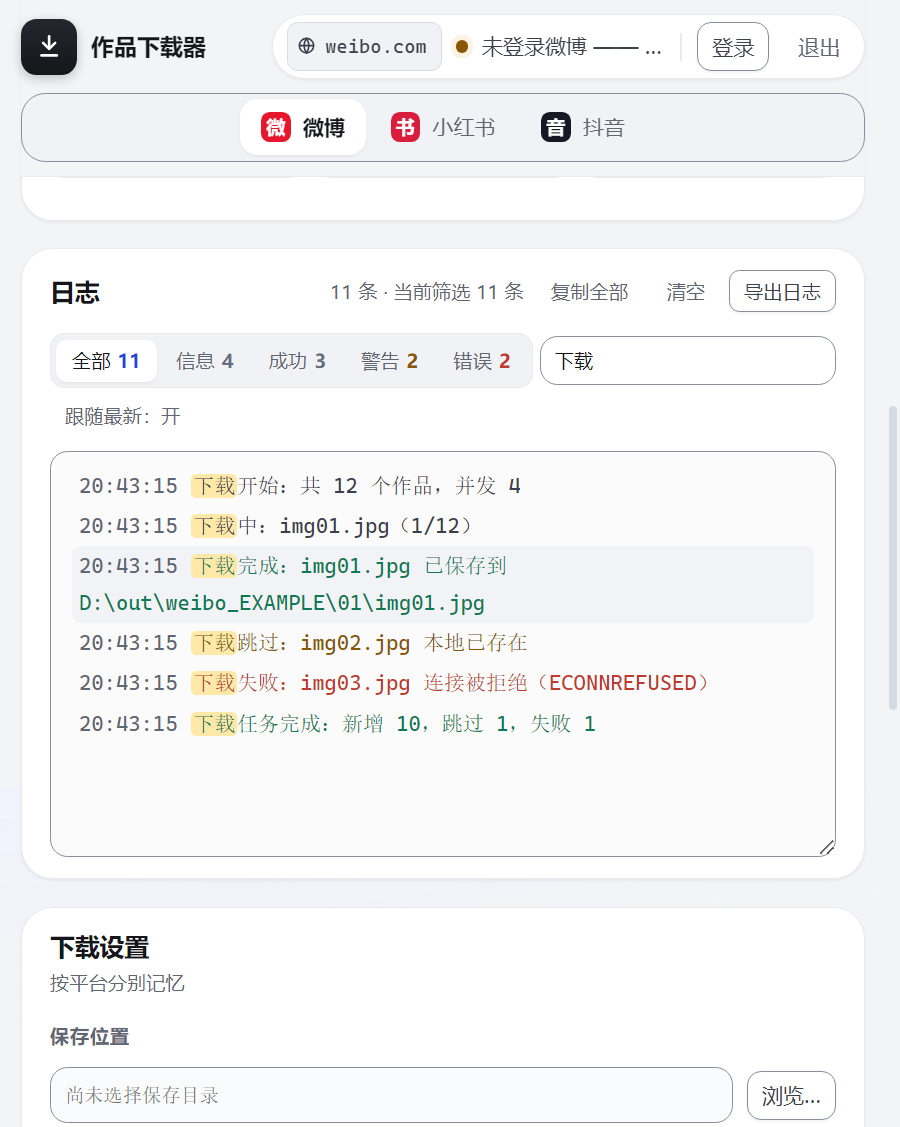
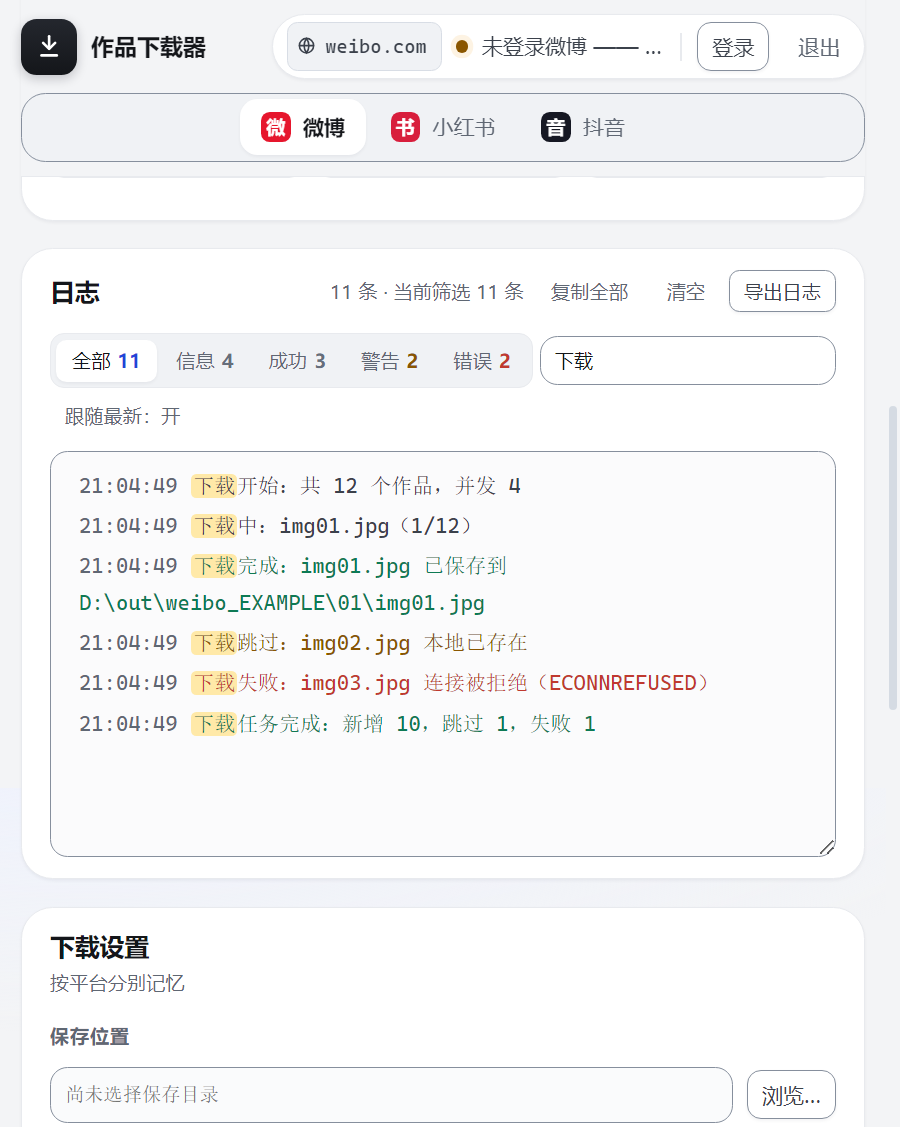
docs: 补失败明细与设置全展开两张截图，新增 failures 冒烟场景
- 新场景 `failures`：一次任务里同时出现三种真实失败分支 ——
  HTTP 403（链接过期）、ECONNREFUSED（连接被拒）、ENOSPC（磁盘空间不足），
  让「失败明细」这一块立起来。断言：明细 3 行、标题里的失败数与统计一致、
  复制清单/清除两个动作都在。
  踩坑：状态里的 fail 必须从 0 起 —— handleEvent 的 fail 分支会自己 fail++，
  预先写 3 会让统计格显示 6，与「失败明细 3 项」自相矛盾。
- 新增截图 `desktop-05-failures`（错误提示）与 `desktop-06-settings`（设置项全展开，
  用更高的窗口让右栏 11 项 + ffmpeg + 站点地址一屏可见）。
- README 截图章节补这两张，并注明失败明细里的三种原因与统计、日志同源；
  冒烟场景清单补上 failures。

全量 429 个用例通过；截图 10 张全部自检通过。

Changed region(s): [[0.0933, 0.4037, 0.1867, 0.528], [0.0933, 0.559, 0.1867, 0.6522], [0.0622, 0.9627, 0.2489, 0.9938]]

diff --git a/src/main/app/smoke.js b/src/main/app/smoke.js
@@ -72,7 +72,7 @@ function pngPathOf(smokeOut) {
 }
 
 /** 允许的截图场景（顺序即上面文件头的说明顺序） */
-const SMOKE_SCENES = ['idle', 'progress', 'modal', 'logs'];
+const SMOKE_SCENES = ['idle', 'progress', 'modal', 'logs', 'failures'];
 const DEFAULT_SCENE = 'progress';
 
 /**
@@ -270,6 +270,54 @@ function attachSmoke(ctx) {
           const toastEl = document.getElementById('toast');
           for (let i = 0; i < 25 && toastEl && toastEl.classList.contains('show'); i++) await sleep(200);
           return { scene: SCENE, hasApi: typeof window.api, viewport, snap, logs, checks };
+        }
+
+        /**
+         * 失败明细场景：一次任务里同时出现多种失败原因（403 / 连接被拒 / 磁盘满 / 登录态过期），
+         * 让「失败明细」这一块真正立起来 —— 进度条只给「失败 N」，出了事必须能落到具体文件。
+         */
+        if (SCENE === 'failures') {
+          const ui = window.__ui;
+          /** fail 必须从 0 起：handleEvent 的 fail 分支会自己 state.stats.fail++，
+           *  预先写 3 的话跑完会变成 6，统计格与「失败明细 3 项」自相矛盾。 */
+          ui.state.stats = { total: 12, done: 8, skip: 1, fail: 0, item: 5 };
+          ui.state.inflight.clear();
+          ui.renderStats();
+          await frames();
+
+          const stat = (done, skipped, failed) => ({ done, skipped, failed, bytes: 2048 * (done + failed), remaining: 0 });
+          ui.handleEvent({ type: 'dl', event: 'progress', file: 'D:\\\\out\\\\weibo_EXAMPLE\\\\01\\\\img07.jpg',
+            written: 40, total: 100, stats: stat(8, 1, 0) });
+          await frames();
+          ui.handleEvent({ type: 'dl', event: 'fail', file: 'D:\\\\out\\\\weibo_EXAMPLE\\\\01\\\\img07.jpg',
+            error: 'HTTP 403 Forbidden（链接已过期）', stats: stat(8, 1, 1) });
+          ui.handleEvent({ type: 'dl', event: 'fail', file: 'D:\\\\out\\\\weibo_EXAMPLE\\\\01\\\\vid03.mp4',
+            error: '连接被拒绝（ECONNREFUSED）', stats: stat(8, 1, 2) });
+          ui.handleEvent({ type: 'dl', event: 'fail', file: 'D:\\\\out\\\\weibo_EXAMPLE\\\\01\\\\img09.jpg',
+            error: '写入失败：磁盘空间不足（ENOSPC）', stats: stat(8, 1, 3) });
+          await frames(3);
+
+          const failBox = document.getElementById('failBox');
+          const failRows = document.querySelectorAll('#failList .f-row').length;
+          const failCount = document.getElementById('failCount').textContent;
+          const failButtons = ['btnCopyFail', 'btnClearFail'].filter((id) => !!document.getElementById(id)).length;
+
+          // 把失败明细滚到视口中间：它默认在进度卡最底部，900 高的窗口里看不到
+          if (failBox && failBox.scrollIntoView) failBox.scrollIntoView({ block: 'center' });
+          await frames(3);
+
+          check('失败明细区出现了', !failBox.hidden, !failBox.hidden);
+          check('三条失败逐条列出', failRows === 3, failRows);
+          check('标题里的失败数与统计一致', failCount === '3', failCount);
+          check('复制清单 / 清除 两个动作都在', failButtons === 2, failButtons);
+          return {
+            scene: SCENE,
+            hasApi: typeof window.api,
+            viewport,
+            snap,
+            failures: { failRows, failCount, failButtons, stats: { ...ui.state.stats } },
+            checks,
+          };
         }
 
         /* ---------- 2. 设计令牌是否真的生效 ----------

diff --git a/tools/screenshots.js b/tools/screenshots.js
@@ -1,6 +1,6 @@
 #!/usr/bin/env node
 /**
- * 生成 README 用的界面截图（桌面端 + 窄屏各四个场景，共八张）。
+ * 生成 README 用的界面截图（桌面端六个场景 + 窄屏四个场景，共十张）。
  *
  * 为什么单独写一个编排脚本，而不是手写八条命令：
  *   ① 每张图要一套 `--window-size` + `--smoke-scene` + 各自的 `--user-data-dir`，
@@ -20,7 +20,7 @@
  *
  * 用法：
  *   set SD_ELECTRON_EXE=<你的 Electron 可执行文件路径>
- *   node tools/screenshots.js                    # 全部八张
+ *   node tools/screenshots.js                    # 全部十张
  *   node tools/screenshots.js 02                 # 只跑名字含 02 的那张（调试用）
  *
  * 产物（docs/screenshots/）：
@@ -28,6 +28,8 @@
  *   desktop-02-progress.png      下载进行中
  *   desktop-03-cookie-modal.png  手动 Cookie 弹窗
  *   desktop-04-logs.png          日志区（级别筛选 + 关键字检索）
+ *   desktop-05-failures.png      失败明细（多种失败原因逐条落到文件）
+ *   desktop-06-settings.png      设置项全展开（更高的窗口，右栏无需内滚）
  *   mobile-01-idle.png           窄屏首屏（单栏）
  *   mobile-02-progress.png       窄屏下载中
  *   mobile-03-cookie-modal.png   窄屏弹窗
@@ -59,6 +61,8 @@ const SHOTS = [
   { name: 'desktop-02-progress', scene: 'progress', size: DESKTOP, desc: '下载进行中（进度条 + 并发细条 + 失败明细）' },
   { name: 'desktop-03-cookie-modal', scene: 'modal', size: DESKTOP, desc: '手动 Cookie 弹窗（微博）' },
   { name: 'desktop-04-logs', scene: 'logs', size: DESKTOP, desc: '日志区（级别筛选 + 关键字检索）' },
+  { name: 'desktop-05-failures', scene: 'failures', size: DESKTOP, desc: '失败明细（403 / 连接被拒 / 磁盘满，逐条落到文件）' },
+  { name: 'desktop-06-settings', scene: 'idle', size: '1427x1240', desc: '设置项全展开（右栏 11 项 + ffmpeg + 站点地址，无需内滚）' },
   { name: 'mobile-01-idle', scene: 'idle', size: MOBILE, desc: '窄屏首屏（单栏布局）' },
   { name: 'mobile-02-progress', scene: 'progress', size: MOBILE, desc: '窄屏下载中' },
   { name: 'mobile-03-cookie-modal', scene: 'modal', size: MOBILE, desc: '窄屏弹窗' },

diff --git a/README.md b/README.md
@@ -60,17 +60,26 @@
 ## 截图
 
 以下截图由 `npm run shots` 生成：启动真实应用、把界面摆成对应状态、跑一遍自检断言（`errors` 必须为空）后截图。
-桌面端窗口 1427×900，窄屏窗口 527×700（高 DPI 下输出 2475×1477 / 900×1127）。
+桌面端输出 2475px 宽、窄屏 900px 宽（窗口 1427×900 与 527×700，1.75 倍缩放）；
+「设置项全展开」那张用了更高的窗口，以便整列设置一屏可见。
 
 **桌面端**
 
-| 首屏 | 下载中 |
+| 首屏（空状态） | 下载中 |
 |---|---|
 | ![](docs/screenshots/desktop-01-idle.png) | ![](docs/screenshots/desktop-02-progress.png) |
 
 | 手动 Cookie 弹窗 | 日志与筛选 |
 |---|---|
 | ![](docs/screenshots/desktop-03-cookie-modal.png) | ![](docs/screenshots/desktop-04-logs.png) |
+
+| 失败明细（错误提示） | 设置项全展开 |
+|---|---|
+| ![](docs/screenshots/desktop-05-failures.png) | ![](docs/screenshots/desktop-06-settings.png) |
+
+失败明细那张里三种失败原因都是真实分支：`HTTP 403`（链接过期）、`ECONNREFUSED`（连接被拒）、
+`ENOSPC`（磁盘空间不足）。统计格「失败 3」与「失败明细 3 项」、日志三条错误行是同一份数据，
+不是摆设。
 
 **窄屏（单栏布局）**
 
@@ -178,7 +187,7 @@ npm run test:list  # 逐个文件串行执行，便于定位
 social-downloader.exe --smoke-out=D:/tmp/smoke.json --smoke-scene=progress --window-size=1440x900
 ```
 
-- `--smoke-scene`：`idle`（干净首屏）/ `progress`（下载中）/ `modal`（Cookie 弹窗）/ `logs`（日志压力），默认 `progress`
+- `--smoke-scene`：`idle`（干净首屏）/ `progress`（下载中）/ `modal`（Cookie 弹窗）/ `logs`（日志压力）/ `failures`（三种失败原因同现），默认 `progress`
 - 断言结果并入 `errors`：`errors` 非空即失败，不需要人肉看 JSON
 - 截图写在 `<smoke-out>.png`，失败只警告不判失败（无 GPU / 远程桌面常见）
 
@@ -188,7 +197,7 @@ social-downloader.exe --smoke-out=D:/tmp/smoke.json --smoke-scene=progress --win
 
 ```bash
 set SD_ELECTRON_EXE=<你的 Electron 或已安装应用的 exe 绝对路径>
-npm run shots              # 八张全部重拍
+npm run shots              # 十张全部重拍
 npm run shots -- 02        # 只重拍名字含 02 的两张
 ```
 
